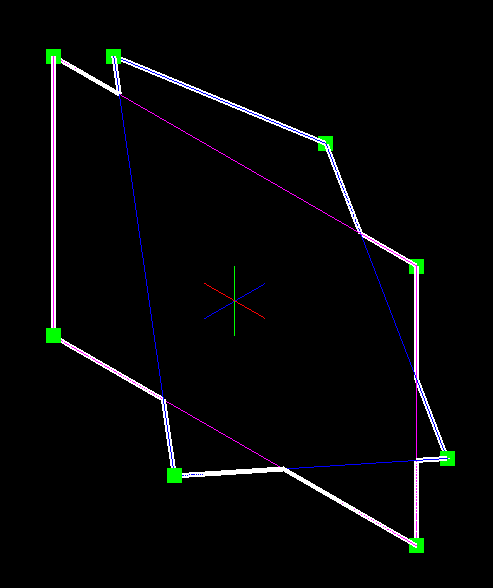
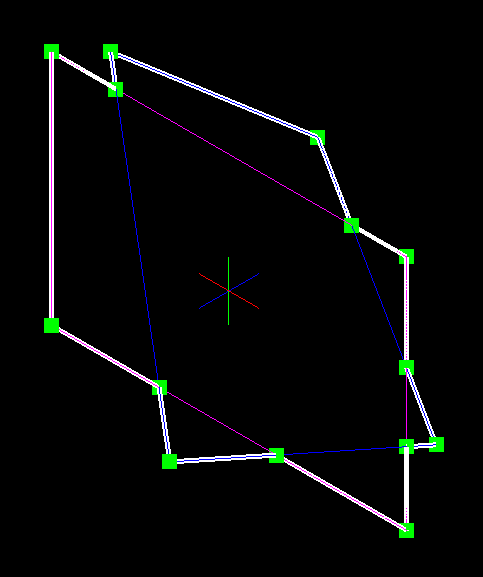
Updated the boolean operation - Union

diff --git a/GeometryAlgorithms/main.cpp b/GeometryAlgorithms/main.cpp
@@ -122,12 +122,12 @@ int main()
 		renderer.DrawPolygon(clipPolygon, 0.2f, 0.0f, 0.0f, 1.0f);   // Draw clipPolygon
 		//renderer.DrawPolygon(clipped, 5.0f, 1.0f, 1.0f, 1.0f);   // Draw clippedPolygon
 
-		//// Draw intersection points
-		//for (const Polygon::PolygonIntersection& intersection : intersections)
-		//{
-		//	Point3D pointToRender3D = Point3D(intersection.Point.X, intersection.Point.Y, 0);
-		//	renderer.DrawPoint(pointToRender3D, 15.0f, 0.0f, 1.0f, 0.0f);
-		//}
+		// Draw intersection points
+		for (const Polygon::PolygonIntersection& intersection : intersections)
+		{
+			Point3D pointToRender3D = Point3D(intersection.Point.X, intersection.Point.Y, 0);
+			renderer.DrawPoint(pointToRender3D, 15.0f, 0.0f, 1.0f, 0.0f);
+		}
 
 		// Draw outside vertices
 		for (const Point2D& point : outsideVertices1)
